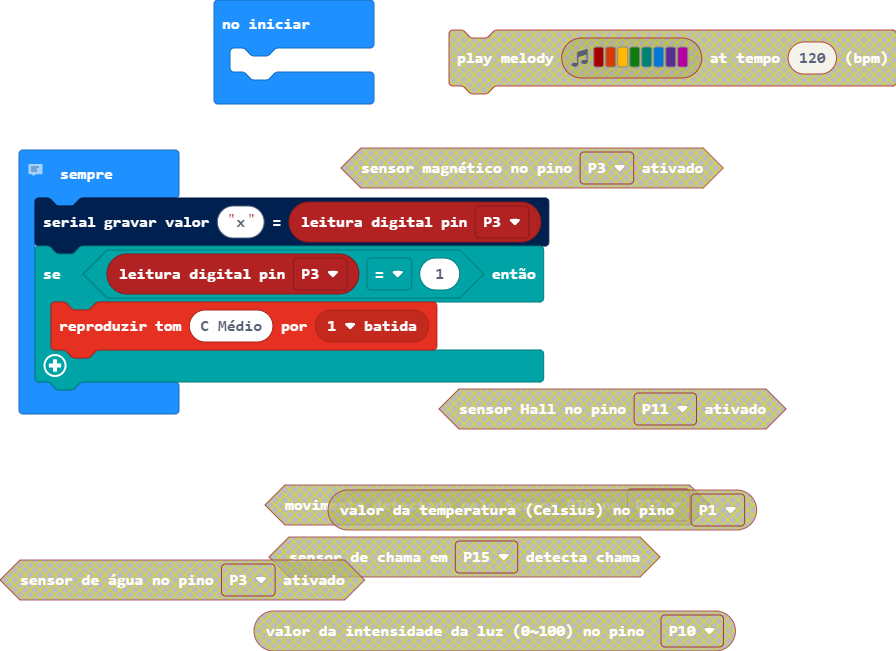
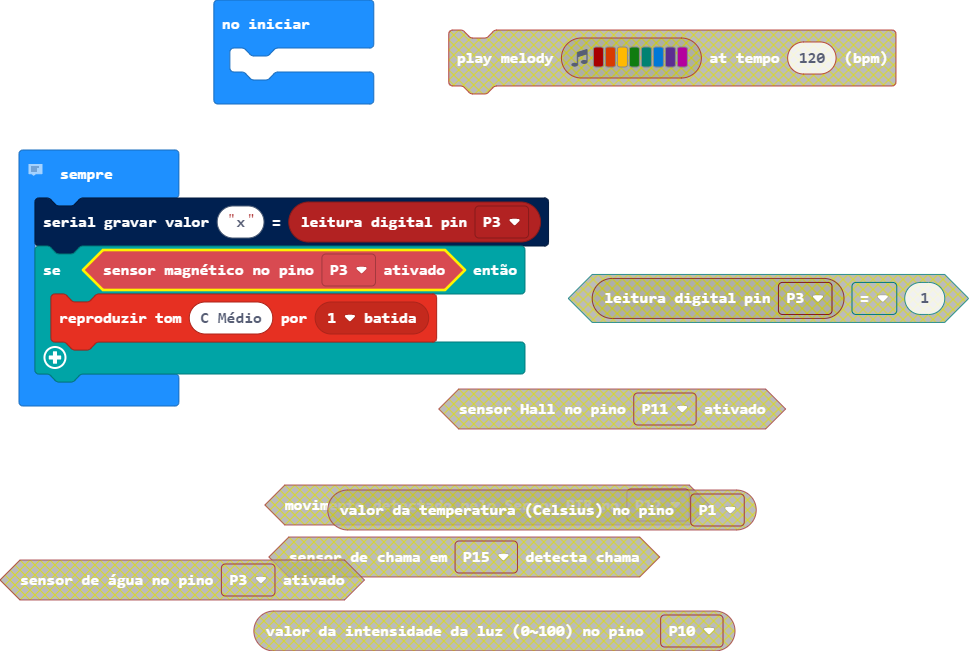
Update main.blocks, main.ts, hackbit.ts

diff --git a/main.ts b/main.ts
@@ -1,7 +1,7 @@
 // www.hackids.com.br
 basic.forever(function () {
     serial.writeValue("x", pins.digitalReadPin(DigitalPin.P3))
-    if (pins.digitalReadPin(DigitalPin.P3) == 1) {
+    if (hackbit.MagneticSwitchState(DigitalPin.P3)) {
         music.playTone(262, music.beat(BeatFraction.Whole))
     }
 })

diff --git a/hackbit.ts b/hackbit.ts
@@ -370,6 +370,7 @@ namespace hackbit {
     //% subcategory=Sensor  group="Digital" 
     //% color=#D84A51 
     export function MagneticSwitchState(pin: DigitalPin): boolean {
+        pins.setPull(pin, PinPullMode.PullDown)
         if (pins.digitalReadPin(pin) == 1) {
             return true
         }
